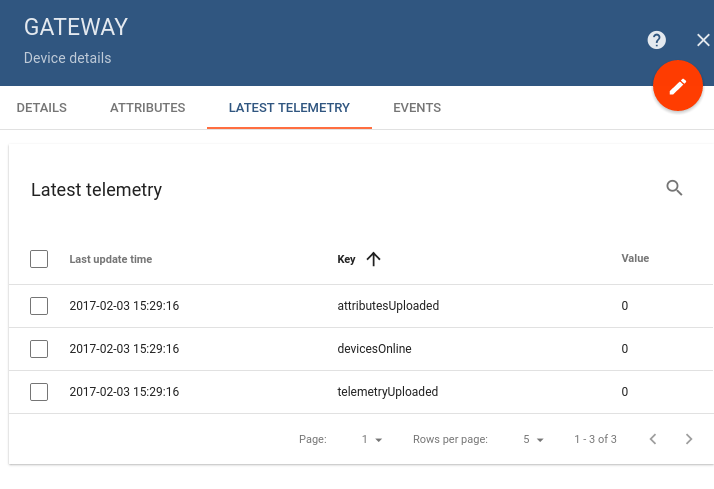
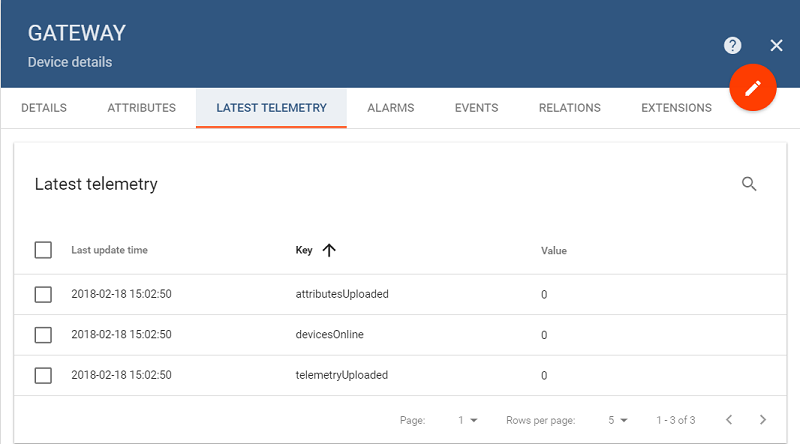
Gateway docs updated as for 1.4.0

diff --git a/docs/iot-gateway/getting-started.md b/docs/iot-gateway/getting-started.md
@@ -58,15 +58,15 @@ Open new device card and click on "Copy Access Token" button.
 
 ## Step 4: Gateway configuration
 
-Navigate to gateway configuration folder and edit **tb-gateway.yml** file.
-Configuration folder location:
+Thingsboard Gateway supports per-tenant configuration. This means that each tenant can have own connectivity and extensions configuration.
 
+Navigate to the gateway configuration folder and edit **tb-gateway.yml** file.
 ```bash
 Windows: YOUR_INSTALL_DIR/conf
 Linux: /etc/tb-gateway/conf
 ```
   
-Change **gateway.connection.host** property to your ThingsBoard host (leave without modifications in case of live demo instance).
+Change **gateway.connection.host** and **gateway.connection.port** properties to your ThingsBoard host (leave without modifications in case of live demo instance).
 
 Change **gateway.connection.security.accessToken** property to your access token that was copied during step 3.
 
@@ -74,33 +74,38 @@ You gateway configuration should look similar to this file:
 
 ```text
 
-gateway:
-  reporting:
-    interval: 60000
-  persistence:
-    type: file
-    path: storage
-    bufferSize: 1000
-  connection:
-    host: "demo.thingsboard.io"
-    port: 1883
-    retryInterval: 3000
-    maxInFlight: 1000
-    security:
-      accessToken: YOUR_ACCESS_TOKEN_HERE
-
-opc:
-  enabled: false
-  configuration: opc-config.json
-
-mqtt:
-  enabled: false
-  configuration: mqtt-config.json
+gateways:
+  tenants:
+    -
+      label: "Tenant"
+      reporting:
+        interval: 60000
+      persistence:
+        type: file
+        path: storage
+        bufferSize: 1000
+      connection:
+        host: "${GATEWAY_HOST:YOUR_HOST}"
+        port: 1883
+        retryInterval: 3000
+        maxInFlight: 1000
+        security:
+          accessToken: "${GATEWAY_ACCESS_TOKEN:YOUR_TOKEN}"    
+      remoteConfiguration: true
 
 server:
   address: "0.0.0.0"
   port: "9090"
+  
+updates:
+enabled: "${UPDATES_ENABLED:true}"
+
 ```
+
+**remoteConfiguration** property specifies whether this tenant's extensions configuration should be managed remotely (through ThingsBoard GUI)
+or locally (through current configuration file)
+
+
 
 ## Step 5. Launch your gateway
 
@@ -131,8 +136,79 @@ or follow instruction for all steps.
   
 ## Step 8. Connect to external MQTT broker
 
-In this step, we will connect to the external MQTT broker in order to start collecting data from legacy or third-party applications and devices.
+In this step, we will connect to the external MQTT broker in order to start collecting data from third-party or legacy applications and devices.
 
+There are two options available:
+
+ - [**GUI configuration**](/docs/iot-gateway/getting-started/#step-81-mqtt-broker-gui-configuration)
+ - [**File configuration**](/docs/iot-gateway/getting-started/#step-82-mqtt-broker-file-configuration)
+
+
+### Step 8.1 MQTT broker GUI configuration
+
+To configure ThingsBoard Gateway through ThingsBoard GUI, **remoteConfiguration** must be enabled in **tb-gateway.yaml**:
+
+```yaml
+gateways:
+  tenants:
+    -
+      label: "Tenant"
+      # Some configuration omitted
+      remoteConfiguration: true
+```
+If **remoteConfiguration** is set to **false**, GUI configuration will not take effect and ThingsBoard Gateway will look for configuration in config files. 
+See [**file configuration**](/docs/iot-gateway/getting-started/#step-82-mqtt-broker-file-configuration) for more details.
+
+{% include templates/gateway-mosquitto.md %}
+
+Go to **Devices**, select your Gateway and click on **Extensions** tab. 
+
+At this point we recommend to download and import sample MQTT configuration file [mqtt-gui-extension-configuration.json](/docs/iot-gateway/resources/mqtt-gui-extension-configuration.json){:target="_blank"}. 
+ 
+You may as well configure MQTT extension step-by-step, but this is recommended for users who are already experienced with 
+ThingsBoard IoT Gateway. 
+ 
+Click **Import extension configuration** and upload the downloaded **mqtt-gui-extension-configuration.json** file:
+
+{:refdef: style="text-align: center;"}
+![image](/images/gateway/gateway-import-configuration.png)
+{: refdef} 
+
+When the configuration is imported, click on **Edit extension** button to review the imported configuration.
+
+{:refdef: style="text-align: center;"}
+![image](/images/gateway/gateway-mqtt-edit-extension-1.png)
+{: refdef} 
+
+MQTT Extension configuration contains one or more broker configurations:
+ 
+{:refdef: style="text-align: center;"}
+![image](/images/gateway/gateway-mqtt-edit-extension-2.png)
+{: refdef} 
+ 
+Each broker configuration has the following sections:
+
+ - Broker connection settings:
+    - Port
+    - Host
+    - Retry interval
+    - Credentials
+ - Mapping
+ - Connect Requests
+ - Disconnect Requests
+ - Attribute Requests
+ - Attribute Updates
+ - Server side RPC
+
+**NOTE** Broker connection settings **ARE NOT** ThingsBoard server connection parameters. These settings are for an external MQTT 
+broker, which ThingsBoard IoT Gateway collects data from and then sends them to ThingsBoard server. The Gateway takes 
+ThingsBoard server connection settings from tb-gateway.yml file as was described before.
+    
+Mapping described in detail in 
+[**MQTT Extension Configuration Details**](/docs/iot-gateway/getting-started/#step-83-mqtt-extension-configuration-details) section 
+
+### Step 8.2 MQTT broker file configuration
+ 
 Navigate to gateway configuration folder and edit **tb-gateway.yml** file.
 Configuration folder location:
 
@@ -143,15 +219,7 @@ Linux: /etc/tb-gateway/conf
 
 Change **mqtt.enabled** property value to **true**.
 
-We will use Mosquitto MQTT broker for the demonstration purposes. See Mosquitto [downloads page](https://mosquitto.org/download/) for instructions how to install this broker.
-
-**NOTE:** Mosquitto and ThingsBoard use the same port (1883) for MQTT service. If you want to use ThingsBoard and Mosquitto on the same host, you need to change the mqtt port in one of the servers.
-See corresponding [ThingsBoard](/docs/user-guide/install/config/) or [Mosquitto](https://mosquitto.org/man/mosquitto-conf-5.html) documentation for more details.
-
-Since we use ThingsBoard [demo instance](https://demo.thingsboard.io/signup) hosted in the cloud, we will install Mosquitto MQTT broker locally and use the default service configuration.
-
-If you decide to use other MQTT broker that is deployed to the external host or has specific security configuration, please edit **mqtt-config.json** file and modify connection parameters.
-See MQTT extension [configuration guide](/docs/iot-gateway/mqtt/) for more details.
+{% include templates/gateway-mosquitto.md %}
 
 Restart your gateway using following commands
 
@@ -165,9 +233,13 @@ sudo service tb-gateway restart
 
 The **mqtt-config.json** contains sample configuration that allows mapping of JSON messages from external MQTT broker to ThingsBoard device attributes and telemetry.
 
-### Step 8.1 Basic mapping example
+### Step 8.3 MQTT Extension Configuration Details
 
-For example, the default mapping listed below will force gateway to subscribe to the **sensors** topic and use **serialNumber** from incoming json message as a device name.
+The following section describes each part of MQTT Extension configuration settings, both file and GUI-based.
+ 
+#### Step 8.3.1 Basic mapping example
+
+As an example, the default mapping listed below will force gateway to subscribe to the **sensors** topic and use **serialNumber** from incoming json message as a device name.
 Similar, **model** and **temperature** json object fields will be mapped to corresponding ThingsBoard device attribute and telemetry fields.
  
 ```json
@@ -195,10 +267,29 @@ Similar, **model** and **temperature** json object fields will be mapped to corr
 }
 ```
 
+The same mapping configured via GUI:
+
+{:refdef: style="text-align: center;"}
+![image](/images/gateway/gateway-mqtt-mapping-1.png)
+{: refdef} 
+
 Let's see this mapping in action. We will use **mosquitto_pub** command to emulate data from device that is connected to external mqtt broker:
  
 ```bash
 mosquitto_pub -h localhost -p 1883 -t "sensors" -m '{"serialNumber":"SN-001", "model":"T1000", "temperature":36.6}'
+```
+
+**NOTE** On Windows the JSON string may not be interpreted correctly by Gateway. You may see the following error in the Gateway log:
+
+```
+ com.fasterxml.jackson.core.JsonParseException: Unexpected character (''' (code 39)): was expecting double-quote to start field name
+```
+
+If this is the case, use double quotes on the outside and escaping double quotes on the inside 
+of the message, like: 
+
+```
+ "{\"serialNumber\":\"SN-001\", \"model\":\"T1000\", \"temperature\":36.6}"
 ```
 
 You should observe following log message in the gateway logs:
@@ -220,7 +311,7 @@ You can click on the device card and observe delivered attributes and telemetry 
 ![image](/images/gateway/device-model-attribute.png)
 {: refdef}
 
-### Step 8.2 Mapping JSON arrays
+#### Step 8.3.2 Mapping JSON arrays
 
 By default, gateway supports mapping of json arrays, by mapping each array element as a separate entity. For example, following command will create or update two devices: **SN-002** and **SN-003**.
    
@@ -228,7 +319,7 @@ By default, gateway supports mapping of json arrays, by mapping each array eleme
 mosquitto_pub -h localhost -p 1883 -t "sensors" -m '[{"serialNumber":"SN-002", "model":"M2", "temperature":42.0}, {"serialNumber":"SN-003", "model":"M3", "temperature":73.0}]'
 ```
 
-### Step 8.3 Mapping MQTT topic to device name
+#### Step 8.3.3 Mapping MQTT topic to device name
 
 In some cases, the device name is a part of the MQTT topic. In this case, you are able to use the regular expression to extract device name value. 
 This regular expression is configured in the **deviceNameTopicExpression** field.
@@ -257,15 +348,22 @@ mosquitto_pub -h localhost -p 1883 -t "sensor/SN-004/temperature" -m '{"value":3
 }
 ```
 
-### Step 8.4 Advanced mapping syntax and filtering
+The same configuration in GUI:
+
+{:refdef: style="text-align: center;"}
+![image](/images/gateway/gateway-mqtt-mapping-2.png)
+{: refdef}
+
+#### Step 8.3.4 Advanced mapping syntax and filtering
 
 Gateway MQTT extension uses [**JsonPath**](https://github.com/jayway/JsonPath) library to provide the ability of flexible mapping and filtering of JSON structures.
 You can define filterExpression based on the [**path**](https://github.com/jayway/JsonPath#path-examples) and [**filter**](https://github.com/jayway/JsonPath#filter-operators) examples.
 
-### Step 8.5 Custom MQTT message mappers
+#### Step 8.3.5 Custom MQTT message mappers
 
 As a gateway developer, you are able to fork and add custom mappers using following [interface](https://github.com/thingsboard/thingsboard-gateway/blob/release-1.0/src/main/java/org/thingsboard/gateway/extensions/mqtt/client/conf/mapping/MqttDataConverter.java). 
 Feel free to submit PRs with your custom mapper implementations if you believe that they may be useful for the ThingsBoard community.
+
 
 ## Step 9. Connect to external OPC-UA server
 
@@ -309,9 +407,10 @@ KEPServerEX needs to be configured to accept remote connections. Open KEPServerE
 
 **NOTE** KEPServerEX restart is required.
 
-### Step 9.3. Enable OPC-UA extension
+### Step 9.3 Enable OPC-UA extension
 
-Navigate to gateway configuration folder and edit **tb-gateway.yml** file.
+#### Step 9.3.1 OPC-UA extension file configuration
+If you are using file-based configuration, navigate to gateway configuration folder and edit **tb-gateway.yml** file.
 Configuration folder location:
 
 ```bash
@@ -324,6 +423,9 @@ Change **opc.enabled** property value to **true**.
 If you decide to use different OPC-UA server that is deployed to external host or has specific security configuration, please edit **opc-config.json** file and modify connection parameters.
 See OPC-UA extension [configuration guide](/docs/iot-gateway/opc-ua/) for more details.
 
+The **opc-config.json** contains sample configuration that allows mapping of OPC-UA tags to ThingsBoard device attributes and telemetry.
+Once started, OPC-UA extension will monitor your OPC-UA server using this pre-defined configuration.
+
 Restart your gateway using following commands
 
 ```bash
@@ -334,12 +436,18 @@ Linux:
 sudo service tb-gateway restart
 ```
 
+#### Step 9.3.1 OPC-UA extension GUI configuration
+
+You can import sample configuration  
+[opc-ua-gui-extension-configuration.json](/docs/iot-gateway/resources/opc-ua-gui-extension-configuration.json){:target="_blank"}
+
+or configure OPC-UA extension manually. In GUI the extension configuration looks like:
+
+
 ### Step 9.4. Explore data from devices
 
-The **opc-config.json** contains sample configuration that allows mapping of OPC-UA tags to ThingsBoard device attributes and telemetry.
-Once started, OPC-UA extension will monitor your OPC-UA server using this pre-defined configuration.
  
-For example, the default mapping listed below will force gateway to treat all OPC-UA tags that match **deviceNodePattern** as ThingsBoard devices.
+The default mapping listed below will force gateway to treat all OPC-UA tags that match **deviceNodePattern** as ThingsBoard devices.
 Gateway will use **deviceNamePattern** to calculate the device name based on values of different tags using relative to the device node tag (For example, **_System._DeviceId**).
 Similar, **Tag1** and **Tag2** relative OPC-UA tags will be mapped to corresponding ThingsBoard device attribute and telemetry fields.
  

diff --git a/_includes/templates/gateway-mosquitto.md b/_includes/templates/gateway-mosquitto.md
@@ -1,0 +1,9 @@
+We will use Mosquitto MQTT broker for the demonstration purposes. See Mosquitto [downloads page](https://mosquitto.org/download/) for instructions how to install this broker.
+
+**NOTE:** Mosquitto and ThingsBoard use the same port (1883) for MQTT service by default. If you want to use ThingsBoard and Mosquitto on the same host, you need to change the mqtt port in one of the servers.
+See corresponding [ThingsBoard](/docs/user-guide/install/config/) or [Mosquitto](https://mosquitto.org/man/mosquitto-conf-5.html) documentation for more details.
+
+Since we use ThingsBoard [demo instance](https://demo.thingsboard.io/signup) hosted in the cloud, we will install Mosquitto MQTT broker locally and use the default service configuration.
+
+If you decide to use other MQTT broker that is deployed to the external host or has specific security configuration, please edit **mqtt-config.json** file and modify connection parameters.
+See MQTT extension [configuration guide](/docs/iot-gateway/mqtt/) for more details.
